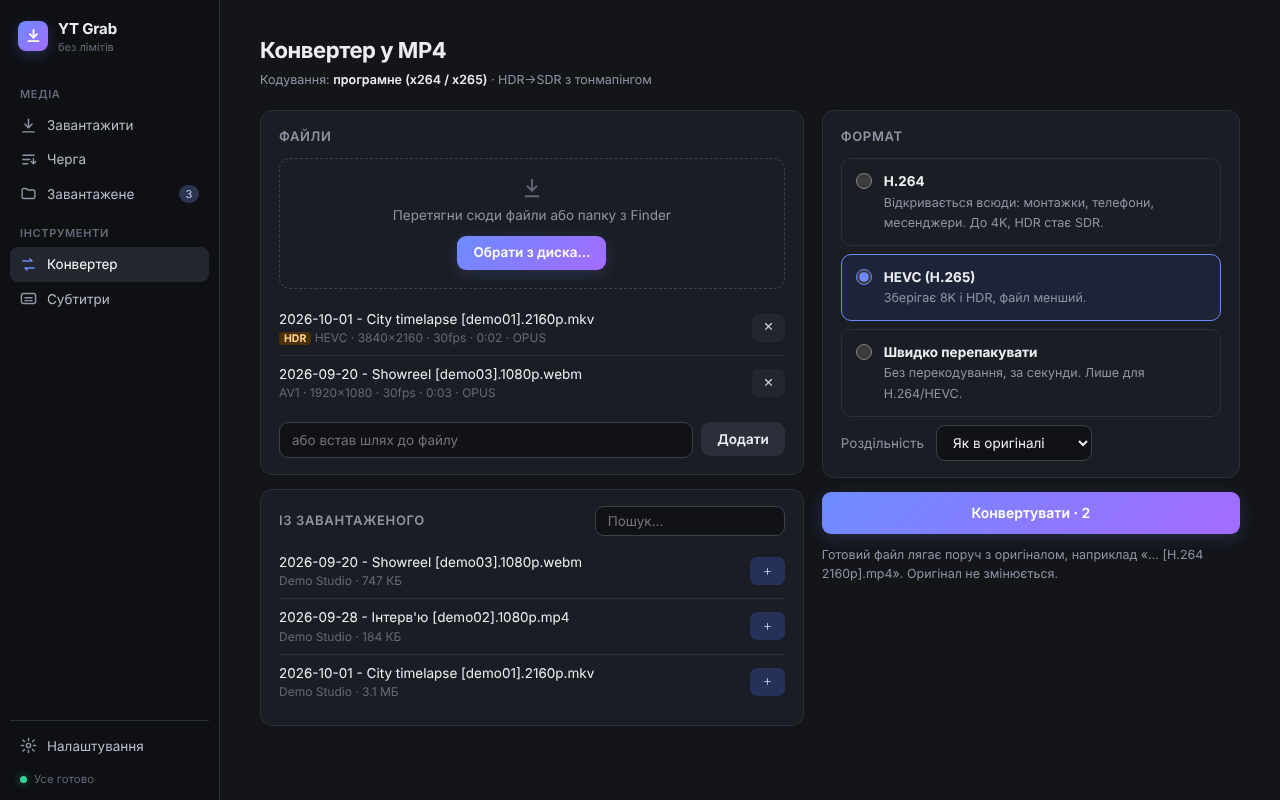
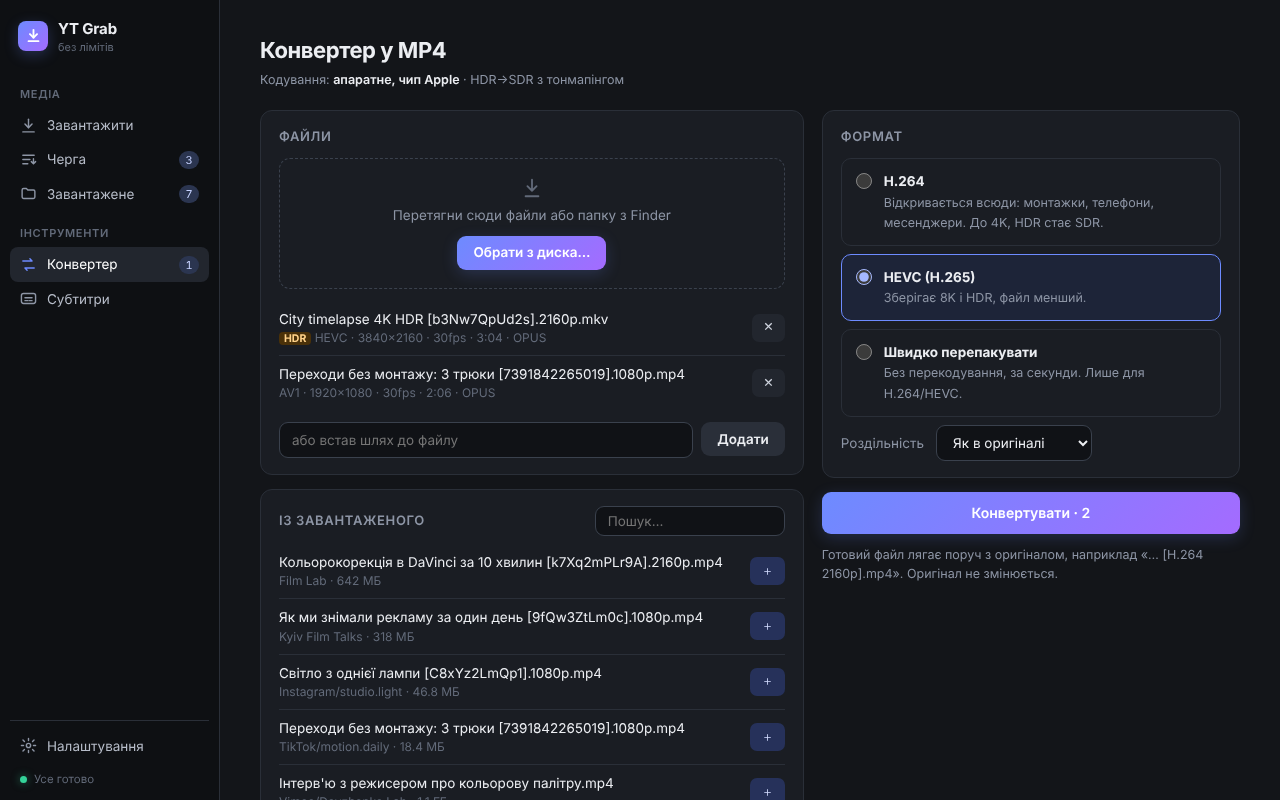
Landing page: realistic demo content and image thumbnails
Retake the four app screenshots from the real UI with realistic mock data
(channels, file names, sizes, queue progress) instead of the demo01..03 test
files and the temp path, add a queue screenshot, and replace the gradient
placeholders in the interactive demo with generated image thumbnails.

Claude-Session: https://claude.ai/code/session_01WWx6Gj1Zb6GJVLCZy7Jfj4

diff --git a/docs/index.html b/docs/index.html
@@ -207,7 +207,7 @@
   .res { max-width: 640px; margin: 20px auto 0; }
   .vcard { display: flex; gap: 14px; background: var(--app-surface); border: 1px solid var(--app-line); border-radius: 12px; padding: 12px; animation: rise .3s ease; }
   @keyframes rise { from { opacity: 0; transform: translateY(8px); } }
-  .thumb { width: 168px; aspect-ratio: 16/9; border-radius: 8px; flex: none; position: relative; display: grid; place-items: center; overflow: hidden; }
+  .thumb { width: 168px; aspect-ratio: 16/9; border-radius: 8px; flex: none; position: relative; display: grid; place-items: center; overflow: hidden; background: #1a1d23 center / cover no-repeat; }
   .thumb.vert { width: 84px; aspect-ratio: 9/16; }
   .thumb .dur { position: absolute; right: 5px; bottom: 5px; background: rgba(0,0,0,.7); font-size: 11px; padding: 1px 5px; border-radius: 4px; }
   .thumb .play { width: 34px; height: 34px; border-radius: 50%; background: rgba(0,0,0,.35); display: grid; place-items: center; backdrop-filter: blur(4px); }
@@ -506,9 +506,10 @@
       <p class="sublead">Чистий інтерфейс українською. Нічого зайвого.</p>
       <div class="tabs" id="tabs">
         <button class="tab on" data-shot="0">Головна</button>
-        <button class="tab" data-shot="1">Завантажене</button>
-        <button class="tab" data-shot="2">Конвертер</button>
-        <button class="tab" data-shot="3">Субтитри</button>
+        <button class="tab" data-shot="1">Черга</button>
+        <button class="tab" data-shot="2">Завантажене</button>
+        <button class="tab" data-shot="3">Конвертер</button>
+        <button class="tab" data-shot="4">Субтитри</button>
       </div>
       <div class="frame"><img id="shot" src="home.png" width="1280" height="800" alt="YT Grab: головний екран"></div>
       <p class="shot-cap" id="shot-cap"></p>
@@ -657,6 +658,7 @@
   // Screenshot tabs
   const shots = [
     ["home.png", "Головна: встав посилання, і YT Grab сам розбереться, відео це, плейлист, канал чи пост з фото."],
+    ["queue.png", "Черга: завантаження, конвертація й субтитри йдуть паралельно, а готове можна одразу відправити в субтитри."],
     ["library.png", "Завантажене: усі файли з пошуком за назвою, кожна платформа й канал у своїй папці."],
     ["converter.png", "Конвертер: H.264 для будь-яких програм, HEVC для 4K/8K і HDR, або швидке перепакування без втрат."],
     ["subtitles.png", "Субтитри: Video → SRT локально через Parakeet чи Whisper, плюс підсумок розмови в .md."],
@@ -732,15 +734,15 @@
 
   function describe({ p, kind, vertical }) {
     const host = p.id === "other" ? "" : p.name;
-    if (kind === "playlist") return { title: "Кольорокорекція з нуля: повний курс", by: "Film Lab", meta: "Плейлист · 24 відео", dur: "24 відео", max: 2160 };
+    if (kind === "playlist") return { title: "Монтаж в DaVinci Resolve: повний курс", by: "Film Lab", meta: "Плейлист · 24 відео", dur: "24 відео", max: 2160, img: "interview.jpg" };
     if (kind === "photos") {
       const n = p.id === "tiktok" ? 8 : 6;
-      return { title: p.id === "tiktok" ? "Слайдшоу: 8 кадрів з бекстейджу" : "Карусель: лукбук осінь", by: p.id === "tiktok" ? "@motion.daily" : "@studio.light", meta: `Пост з фото · ${n} фото${p.id === "tiktok" ? " + музика" : ""}`, dur: `${n} фото`, n };
+      return { title: p.id === "tiktok" ? "Слайдшоу: 8 кадрів з бекстейджу" : "Карусель: лукбук осінь", by: p.id === "tiktok" ? "@motion.daily" : "@studio.light", meta: `Пост з фото · ${n} фото${p.id === "tiktok" ? " + музика" : ""}`, dur: `${n} фото`, n, img: p.id === "tiktok" ? "tiktok-neon.jpg" : "autumn.jpg" };
     }
-    if (kind === "audio") return { title: "Night Drive (lo-fi mix)", by: "lofi room", meta: "Аудіо · 3:42", dur: "3:42" };
-    if (vertical) return { title: p.id === "tiktok" ? "Переходи без монтажу: 3 трюки" : "Reel: світло з однієї лампи", by: p.id === "tiktok" ? "@motion.daily" : "@studio.light", meta: `${host || "Відео"} · 1080×1920`, dur: "0:28", max: 1080 };
-    if (p.id === "youtube") return { title: "Кольорокорекція в DaVinci за 10 хвилин", by: "Film Lab", meta: "YouTube · 8K HDR доступно", dur: "10:24", max: 4320, hdr: true };
-    return { title: host ? `Відео з ${host}` : "Відео з сайту", by: host || new URL(currentUrl).host, meta: `${host || "Один із 1000+ сайтів"} · до 1080p`, dur: "2:15", max: 1080 };
+    if (kind === "audio") return { title: "Night Drive (lo-fi mix)", by: "lofi room", meta: "Аудіо · 3:42", dur: "3:42", img: "city-night.jpg" };
+    if (vertical) return { title: p.id === "tiktok" ? "Переходи без монтажу: 3 трюки" : "Reel: світло з однієї лампи", by: p.id === "tiktok" ? "@motion.daily" : "@studio.light", meta: `${host || "Відео"} · 1080×1920`, dur: "0:28", max: 1080, img: p.id === "tiktok" ? "tiktok-neon.jpg" : "reel-lamp.jpg" };
+    if (p.id === "youtube") return { title: "Кольорокорекція в DaVinci за 10 хвилин", by: "Film Lab", meta: "YouTube · 8K HDR доступно", dur: "10:24", max: 4320, hdr: true, img: "mountains.jpg" };
+    return { title: host ? `Відео з ${host}` : "Відео з сайту", by: host || new URL(currentUrl).host, meta: `${host || "Один із 1000+ сайтів"} · до 1080p`, dur: "2:15", max: 1080, img: p.id === "vimeo" ? "interview.jpg" : "sunset-sea.jpg" };
   }
 
   const qualities = [
@@ -751,7 +753,7 @@
   const res = $("res"), urlInput = $("url"), urlbar = $("urlbar");
 
   function thumbHTML(c, info, vert) {
-    const g = `background:linear-gradient(135deg, ${c} 0%, #2a2350 55%, #6d8bff 100%)`;
+    const g = `background-image:url(thumbs/${info.d.img})`;
     const icon = info.kind === "photos"
       ? `<svg width="16" height="16" viewBox="0 0 24 24" fill="none" stroke="#fff" stroke-width="2" stroke-linecap="round" stroke-linejoin="round"><rect x="3" y="3" width="18" height="18" rx="3"/><circle cx="9" cy="9" r="2"/><path d="m21 15-5-5L5 21"/></svg>`
       : `<svg width="14" height="14" viewBox="0 0 24 24" fill="#fff"><path d="M8 5v14l11-7z"/></svg>`;
@@ -775,6 +777,7 @@
     currentUrl = raw;
     const info = detect(raw);
     info.d = describe(info);
+    info.d.img = info.d.img || "sunset-sea.jpg";
     current = info;
     renderPlats(info.p.id);
     const btn = $("get");
@@ -821,9 +824,9 @@
   // Queue simulation
   let jobs = 0, active = 0;
   const library = [
-    { t: "Світло з однієї лампи", s: "Instagram · 1080p · 0:28", c: "#d62976", v: true },
-    { t: "Кольорокорекція в DaVinci за 10 хвилин", s: "YouTube · 4K · 10:24", c: "#ff0033" },
-    { t: "Переходи без монтажу", s: "TikTok · 1080p · 0:15", c: "#fe2c55", v: true },
+    { t: "Світло з однієї лампи", s: "Instagram · 1080p · 0:28", img: "reel-lamp.jpg" },
+    { t: "Як ми знімали рекламу за один день", s: "YouTube · 1080p · 24:38", img: "interview.jpg" },
+    { t: "City timelapse 4K HDR", s: "YouTube · 4K · 3:04", img: "city-night.jpg" },
   ];
 
   function folder(info) {
@@ -888,7 +891,7 @@
       }, { once: true });
     }
     active--; updateCount();
-    library.unshift({ t: d.title, s: `${info.p.name} · ${label}${d.dur.includes(":") ? " · " + d.dur : ""}`, c: info.p.color, v: info.vertical });
+    library.unshift({ t: d.title, s: `${info.p.name} · ${label}${d.dur.includes(":") ? " · " + d.dur : ""}`, img: d.img || "sunset-sea.jpg" });
     renderLib();
     toast("Завантажено ✓");
   }
@@ -902,7 +905,7 @@
     $("lib-count").textContent = library.length;
     $("lib").innerHTML = library.map(it => `
       <div class="it">
-        <div class="thumb" style="background:linear-gradient(135deg, ${it.c} 0%, #2a2350 55%, #6d8bff 100%)"><span class="play"><svg width="12" height="12" viewBox="0 0 24 24" fill="#fff"><path d="M8 5v14l11-7z"/></svg></span></div>
+        <div class="thumb" style="background-image:url(thumbs/${it.img})"><span class="play"><svg width="12" height="12" viewBox="0 0 24 24" fill="#fff"><path d="M8 5v14l11-7z"/></svg></span></div>
         <div class="t">${esc(it.t)}<span>${esc(it.s)}</span></div>
       </div>`).join("");
   }
